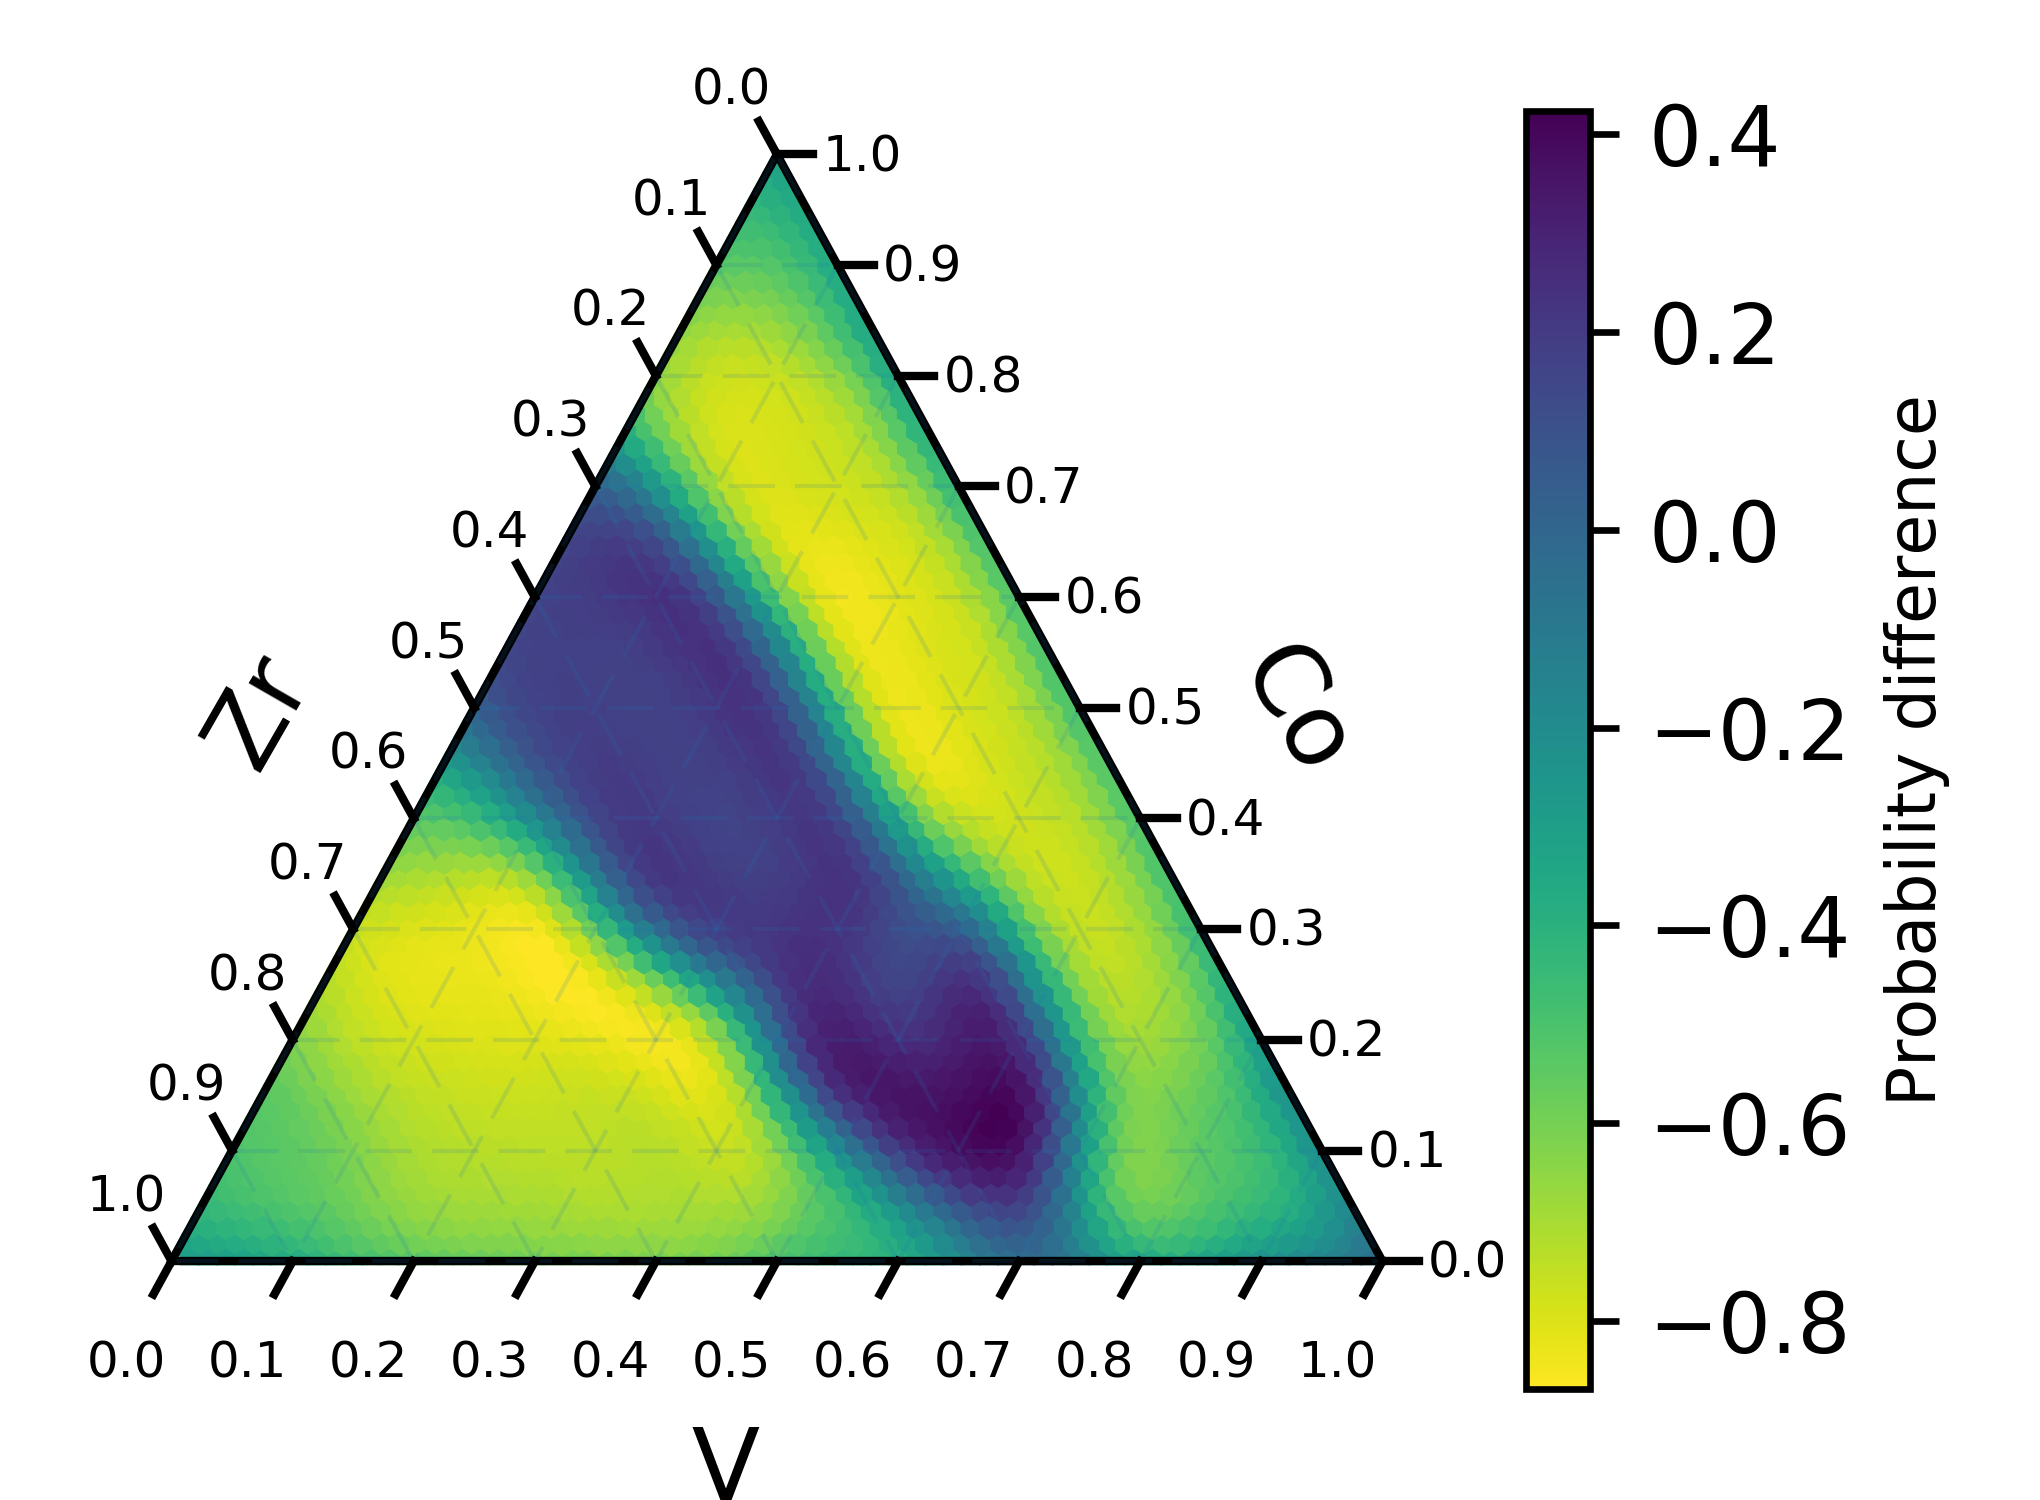
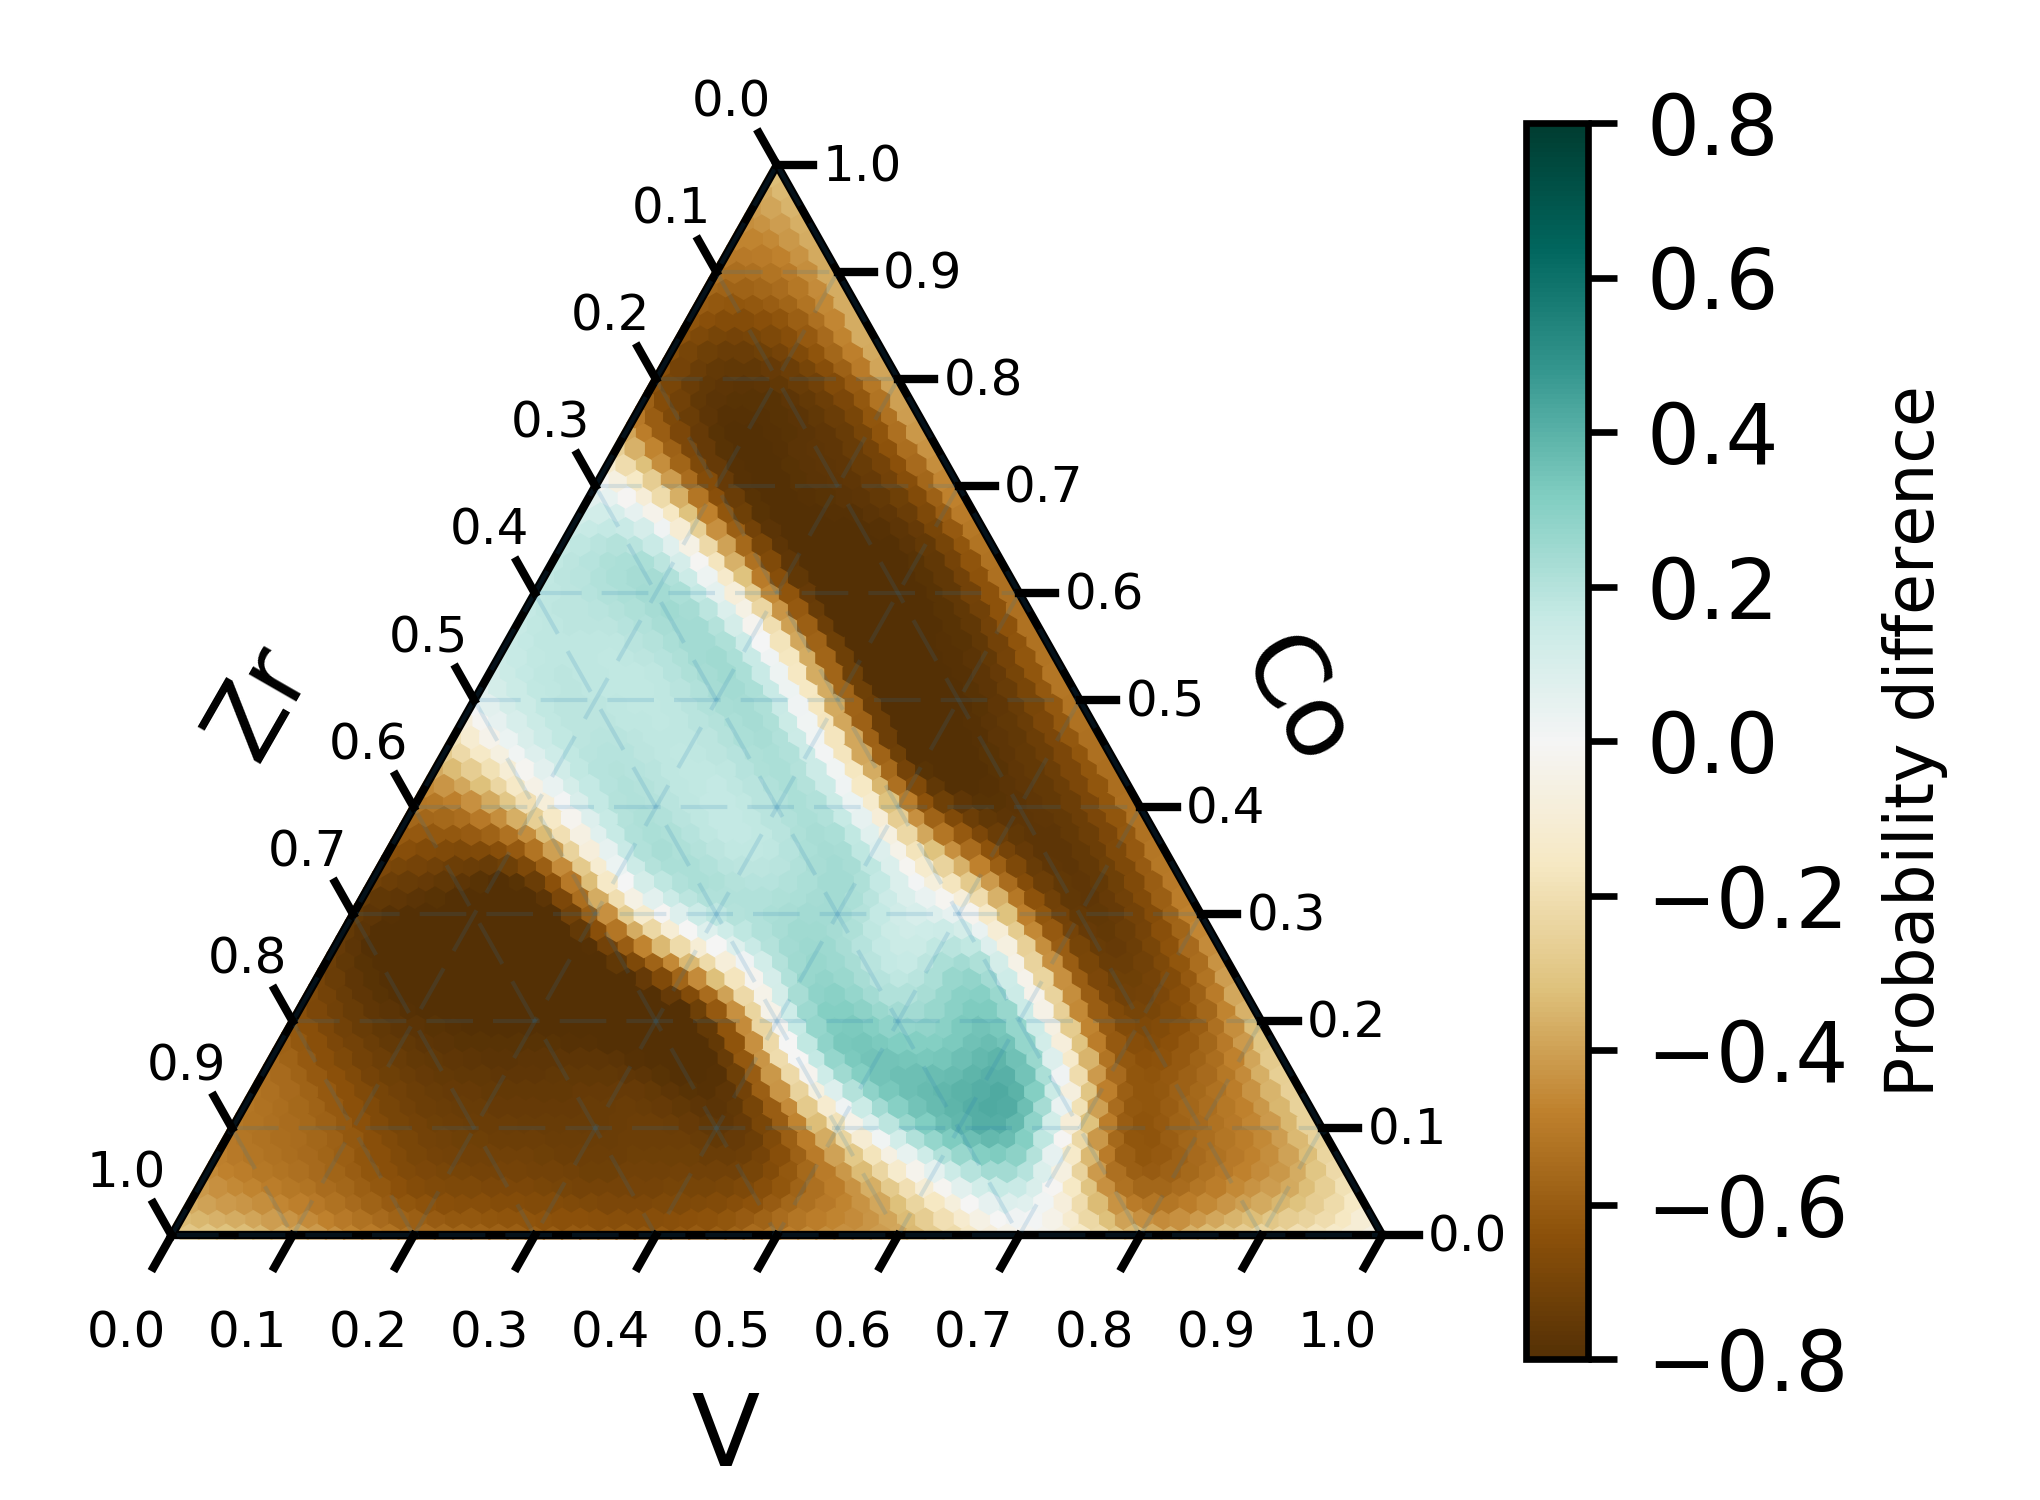
Uploaded Figure 5 plotter

Changed region(s): [[0.0309, 0.0307, 0.9574, 1.0], [0.6176, 0.4293, 0.6794, 0.5213]]

diff --git a/scripts/figure_plotters/Figure5_model_improvement.py b/scripts/figure_plotters/Figure5_model_improvement.py
@@ -18,10 +18,10 @@ path = '..//..//data//ML_prediction//'
 save_path = '..//..//figures//'
 
 
-alloy = 'Co VZr'
+alloy = 'FeTiNb'
 
-# to switch to CoVZr alloy, uncomment the line below
-#alloy = 'CoVZr'
+# # to switch to CoVZr alloy, uncomment the line below
+# alloy = 'Co VZr'
 
 
 filename_new = path + 'new-glasses_' + alloy + '.csv'
@@ -89,37 +89,18 @@ for i in metal1_range:
                 continue
 
 # for FeTiNb
-# ternary_data = np.concatenate(([metal1],[metal2],[metal3],[probability_interpolate_old]), axis = 0)
-# ternary_data = np.transpose(ternary_data)
-#
-# plotTernary.plt_ternary_save(ternary_data, tertitle='',  labelNames=(alloy[0:2], alloy[2:4], alloy[4:6]), scale=100,
-#                        sv=True, svpth=save_path, svflnm= 'Figure5c.png',
-#                        cbl='Probability (GFA = True)', vmin = 0.5, vmax = 1, cmap='viridis_r', cb=True, style='h')
-#
-# ternary_data = np.concatenate(([metal1],[metal2],[metal3],[probability_interpolate_new]), axis = 0)
-# ternary_data = np.transpose(ternary_data)
-#
-# plotTernary.plt_ternary_save(ternary_data, tertitle='',  labelNames=(alloy[0:2], alloy[2:4], alloy[4:6]), scale=100,
-#                        sv=True, svpth=save_path, svflnm='Figure5d.png',
-#                        cbl='Probability (GFA = True)', vmin = 0.5, vmax = 1, cmap='viridis_r', cb=True, style='h')
-#
-# probability_interpolate_new = np.array(probability_interpolate_new)
-# probability_interpolate_old = np.array(probability_interpolate_old)
-# ternary_data = np.concatenate(([metal1],[metal2],[metal3],[probability_interpolate_new-probability_interpolate_old]), axis = 0)
-# ternary_data = np.transpose(ternary_data)
-#
-# plotTernary.plt_ternary_save(ternary_data, tertitle='',  labelNames=(alloy[0:2], alloy[2:4], alloy[4:6]), scale=100,
-#                        sv=True, svpth=save_path, svflnm='Figure5e.png',
-#                        cbl='Probability difference', cmap='viridis_r', cb=True, style='h')
+ternary_data = np.concatenate(([metal1],[metal2],[metal3],[probability_interpolate_old]), axis = 0)
+ternary_data = np.transpose(ternary_data)
 
+plotTernary.plt_ternary_save(ternary_data, tertitle='',  labelNames=(alloy[0:2], alloy[2:4], alloy[4:6]), scale=100,
+                       sv=True, svpth=save_path, svflnm= 'Figure5c.png',
+                       cbl='Probability (GFA = True)', vmin = 0.5, vmax = 1, cmap='viridis_r', cb=True, style='h')
 
-
-# for CoVZr
 ternary_data = np.concatenate(([metal1],[metal2],[metal3],[probability_interpolate_new]), axis = 0)
 ternary_data = np.transpose(ternary_data)
 
 plotTernary.plt_ternary_save(ternary_data, tertitle='',  labelNames=(alloy[0:2], alloy[2:4], alloy[4:6]), scale=100,
-                       sv=True, svpth=save_path, svflnm='Figure5a.png',
+                       sv=True, svpth=save_path, svflnm='Figure5d.png',
                        cbl='Probability (GFA = True)', vmin = 0.5, vmax = 1, cmap='viridis_r', cb=True, style='h')
 
 probability_interpolate_new = np.array(probability_interpolate_new)
@@ -128,8 +109,32 @@ ternary_data = np.concatenate(([metal1],[metal2],[metal3],[probability_interpola
 ternary_data = np.transpose(ternary_data)
 
 plotTernary.plt_ternary_save(ternary_data, tertitle='',  labelNames=(alloy[0:2], alloy[2:4], alloy[4:6]), scale=100,
-                       sv=True, svpth=save_path, svflnm='Figure5b.png',
-                       cbl='Probability difference', cmap='viridis_r', cb=True, style='h')
+                       sv=True, svpth=save_path, svflnm='Figure5e.png',
+                       cbl='Probability difference', vmax = 0.35, vmin = -0.35, cmap='BrBG', cb=True, style='h')
+
+
+
+# # for CoVZr
+# ternary_data = np.concatenate(([metal1],[metal2],[metal3],[probability_interpolate_new]), axis = 0)
+# ternary_data = np.transpose(ternary_data)
+#
+# plotTernary.plt_ternary_save(ternary_data, tertitle='',  labelNames=(alloy[0:2], alloy[2:4], alloy[4:6]), scale=100,
+#                        sv=True, svpth=save_path, svflnm='Figure5a.png',
+#                        cbl='Probability (GFA = True)', vmin = 0.5, vmax = 1, cmap='viridis_r', cb=True, style='h')
+#
+# probability_interpolate_new = np.array(probability_interpolate_new)
+# probability_interpolate_old = np.array(probability_interpolate_old)
+# ternary_data = np.concatenate(([metal1],[metal2],[metal3],[probability_interpolate_new-probability_interpolate_old]), axis = 0)
+# ternary_data = np.transpose(ternary_data)
+#
+#
+#
+#
+# plotTernary.plt_ternary_save(ternary_data, tertitle='',  labelNames=(alloy[0:2], alloy[2:4], alloy[4:6]), scale=100,
+#                        sv=True, svpth=save_path, svflnm='Figure5b.png',
+#                        cbl='Probability difference', vmin = -0.8, vmax = 0.8, cmap='BrBG', cb=True, style='h')
+
+
 
 plt.close("all")
 
